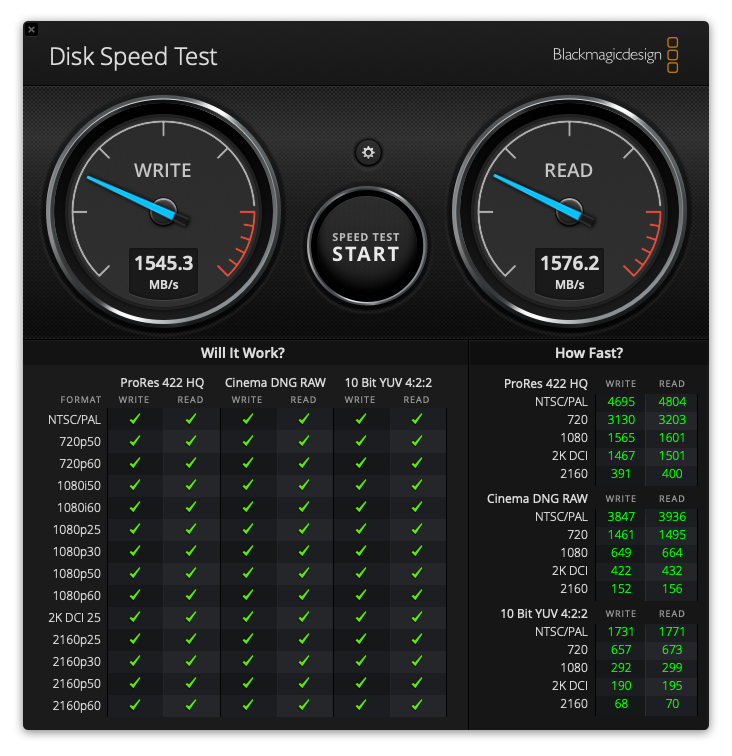
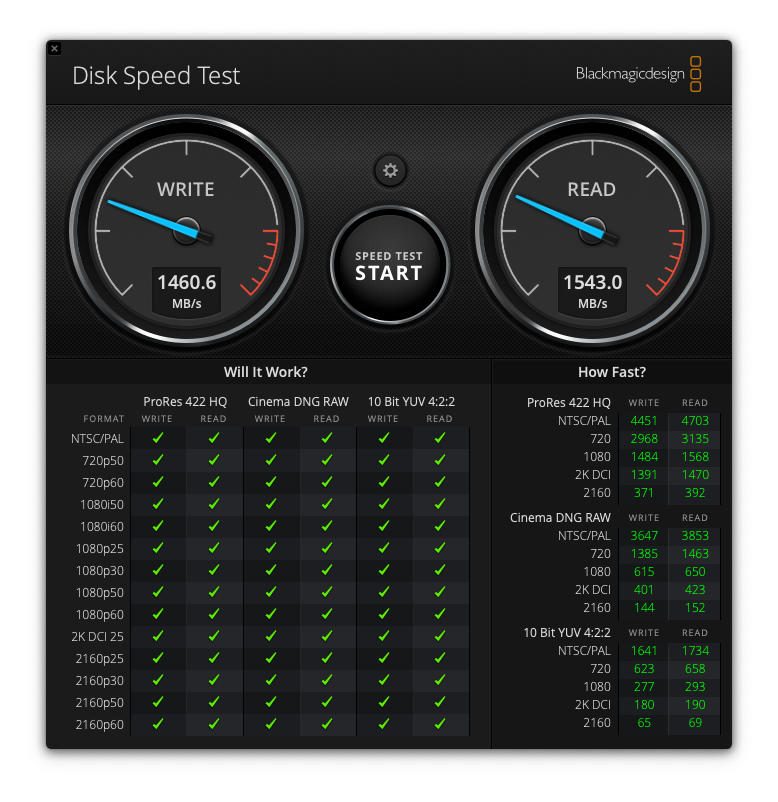
Replaced Sabrent Rocket NVMe with WD SN750 Black

diff --git a/README.md b/README.md
@@ -8,7 +8,7 @@
 |----------------|-------------------------------------------|
 | **CPU**        | `Intel Core i5-8250U @ 1.8 GHz`           |
 | **iGPU**       | `Intel UHD Graphics 620`                  |
-| **Storage**    | `Sabrent ROCKET NVMe PCIe M.2 2280 512GB` |
+| **Storage**    | `Western Digital SN750 Black NVMe 512GB`  |
 | **Audio Code** | `Realtek ALC295 (ALC3254)`                |
 | **WiFi Card**  | `BCM943602BAED aka DW1830`                |
 | **OS**         | `macOS Big Sur 11.3.1 (20E241)`           |
@@ -24,7 +24,7 @@ The following benchmarks were made using Geekbench V5:
 
 ### SSD
 
-![SSD Sabrent Rocket NVMe 3.0 512GB BlackMagic Disk Speed Test](.assets/images/benchmarks/ssd/Blackmagic.png)
+![SSD Western Digital SN750 Black NVMe 512GB BlackMagic Disk Speed Test](.assets/images/benchmarks/ssd/Blackmagic.png)
 ![SSD Sabrent Rocket NVMe 3.0 512GB AmorphousDiskMark](.assets/images/benchmarks/ssd/AmorphousDiskMark.png)
 
 ### RAM
